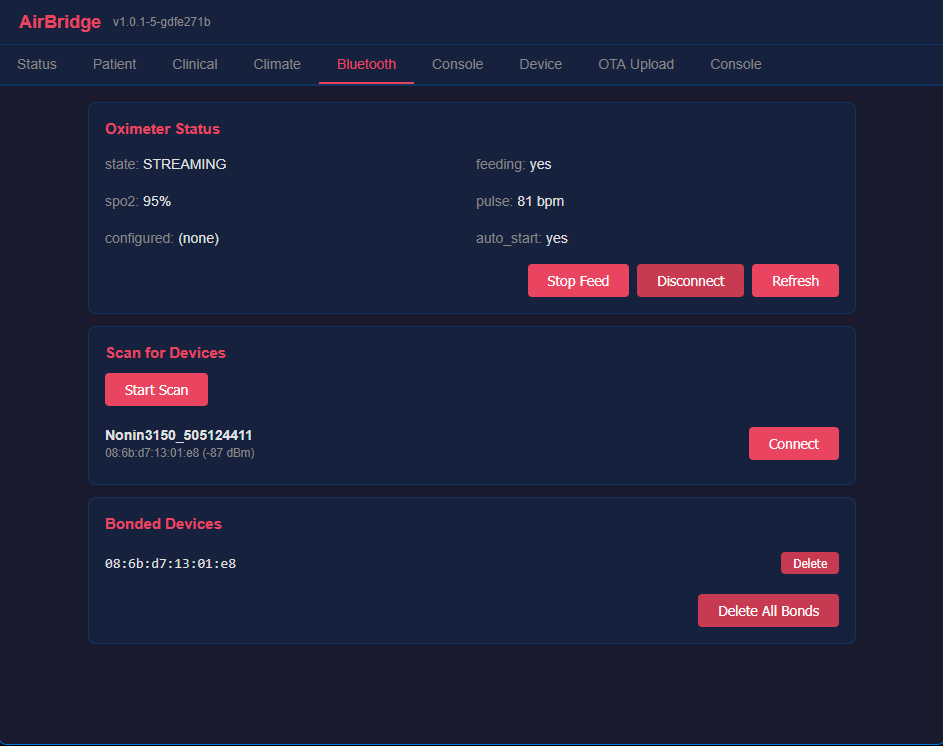
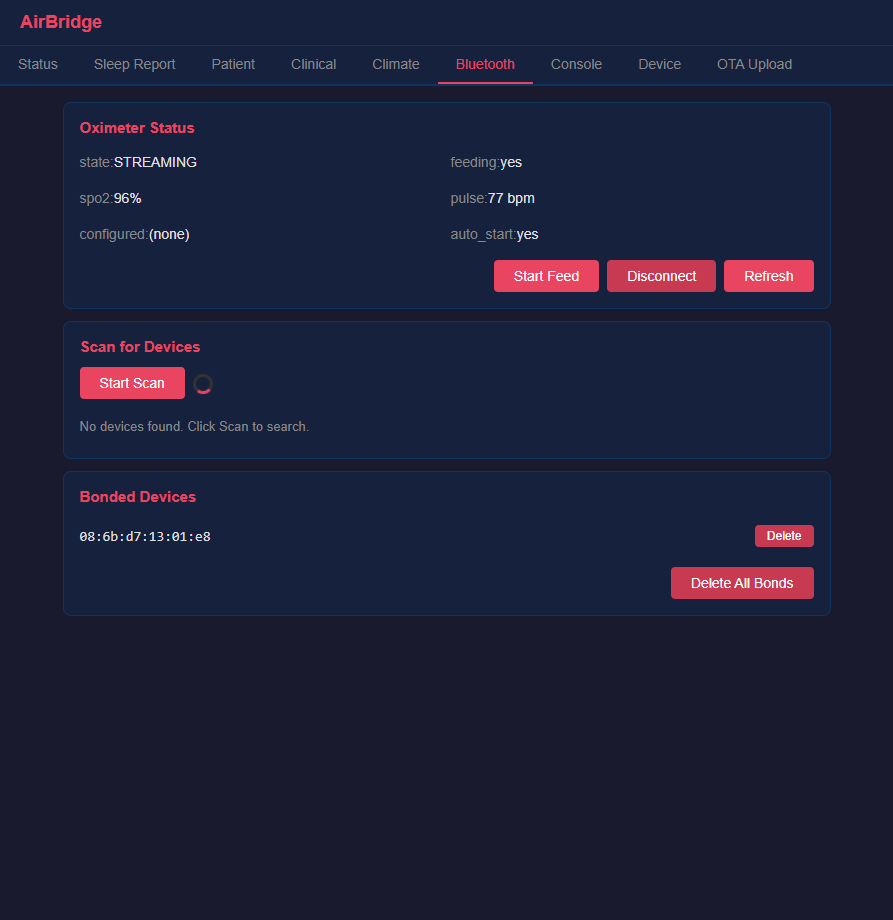
Update screenshots

diff --git a/README.md b/README.md
@@ -28,9 +28,9 @@ Both support serial (`-p /dev/ttyUSB0`) and TCP (`-p tcp:hostname`) with `--tcp-
 
 ## Screenshots
 
-| Status & live waveforms | Therapy settings | BLE management | Firmware upload |
-|---|---|---|---|
-| ![Status](docs/screenshots/status.png) | ![Clinical](docs/screenshots/clinical.png) | ![Bluetooth](docs/screenshots/bluetooth.png) | ![OTA](docs/screenshots/ota.png) |
+| Status & live waveforms | Sleep report | Therapy settings | BLE management | Firmware upload |
+|---|---|---|---|---|
+| ![Status](docs/screenshots/status.png) | ![Report](docs/screenshots/report.png) | ![Clinical](docs/screenshots/clinical.png) | ![Bluetooth](docs/screenshots/bluetooth.png) | ![OTA](docs/screenshots/ota.png) |
 
 ## License
 
